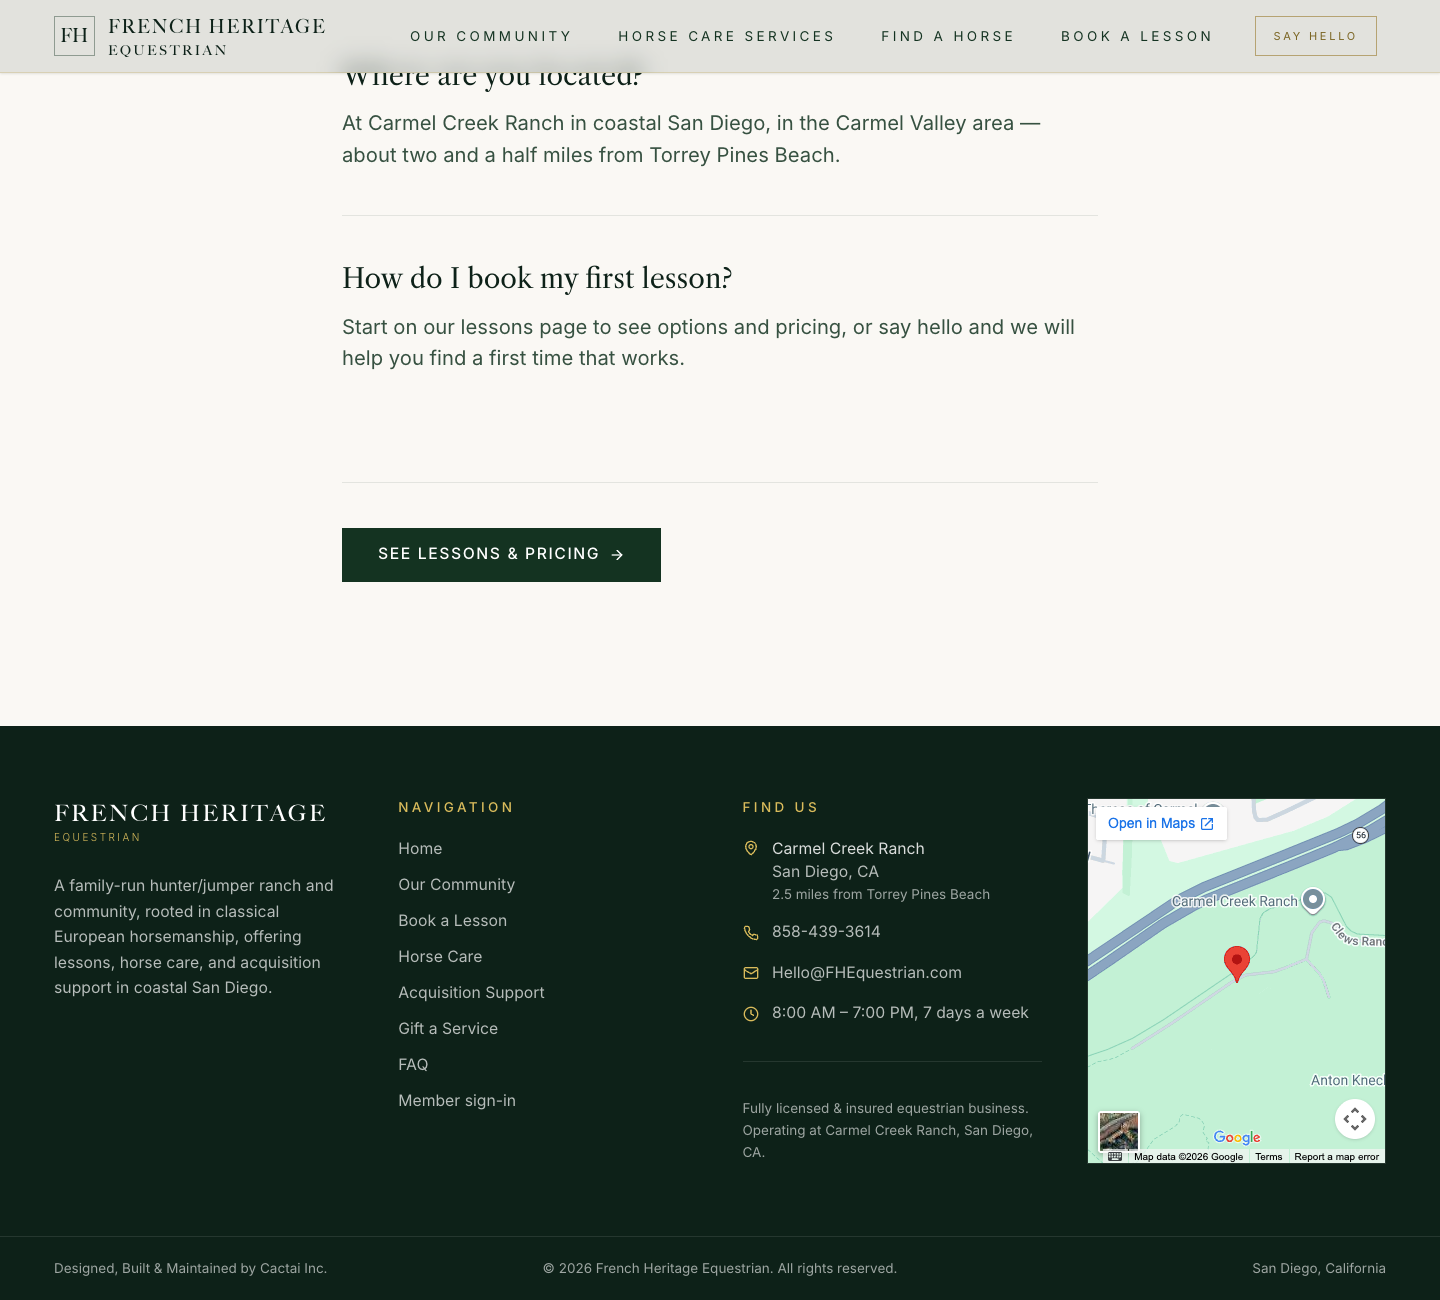
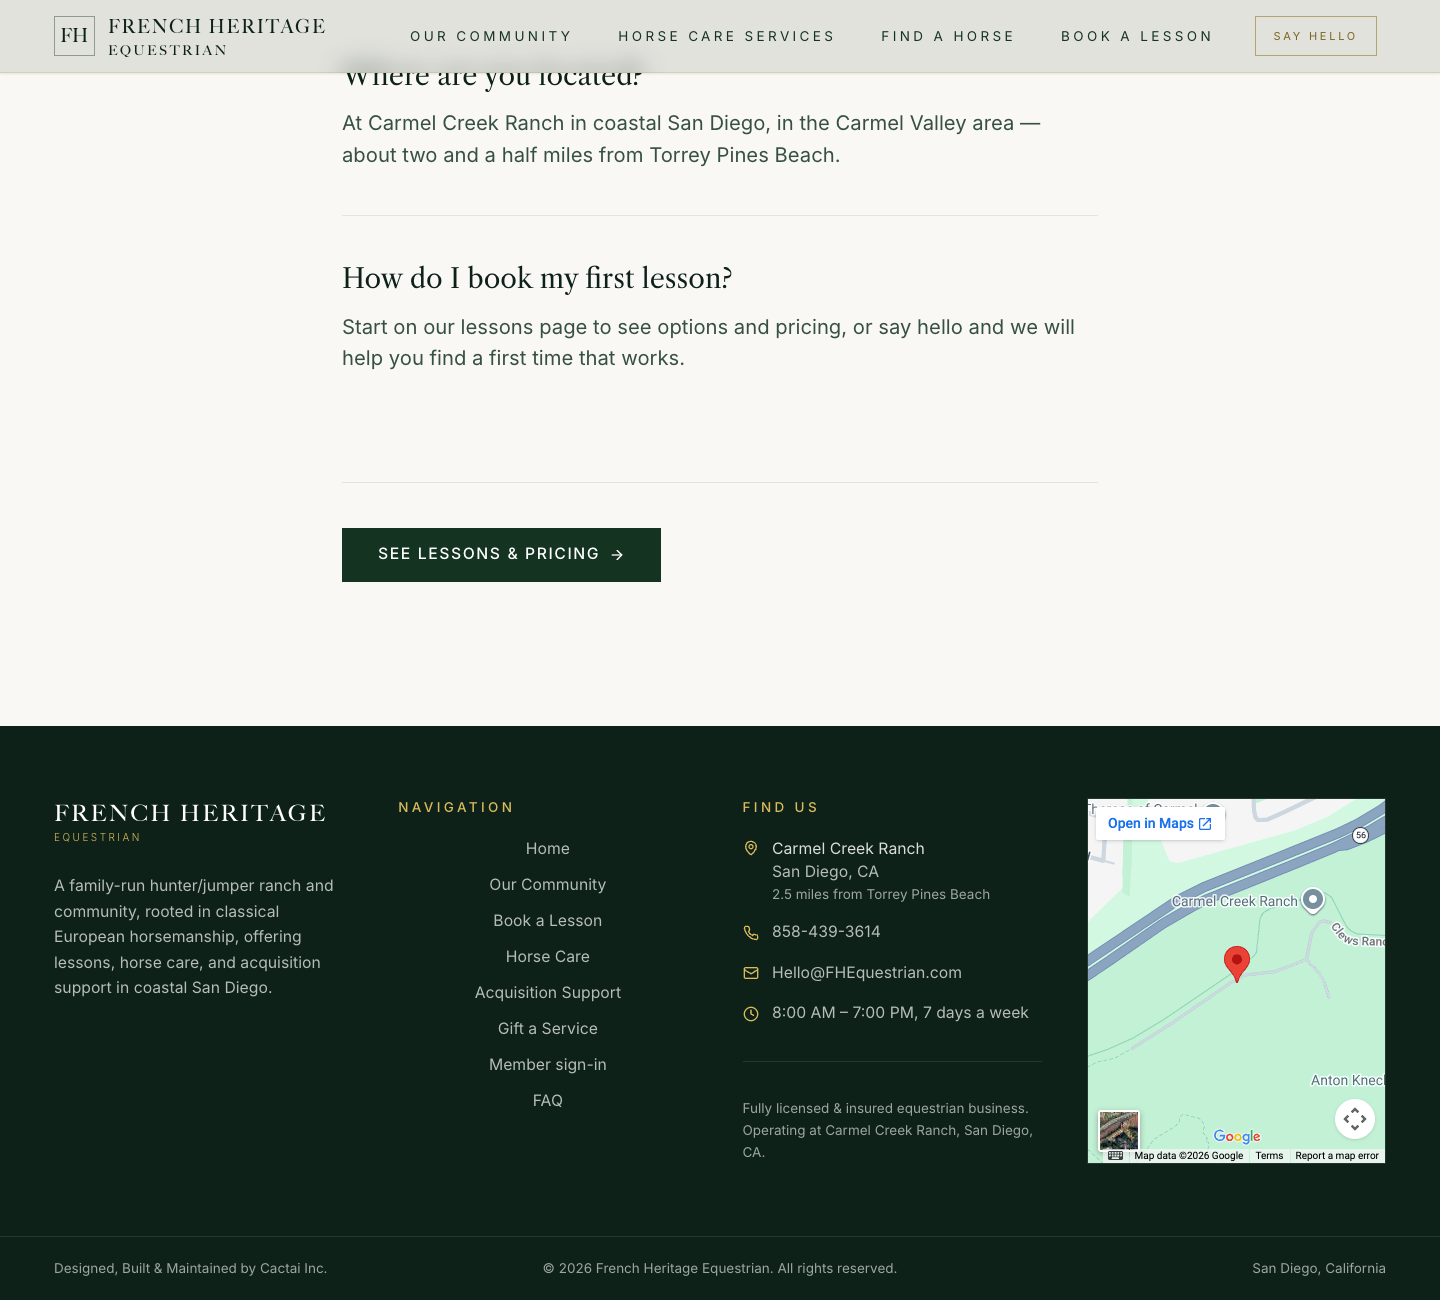
TASK-FOOTER: center the footer nav, move FAQ to the last position
Owner request. nav flex column gets items-center/text-center to center each
link; FAQ pulled out of the mapped array and appended as its own item after
Member sign-in (which was already last), since "last position" means last
overall, not last within the array that already had it there.

diff --git a/src/components/layout/Footer.tsx b/src/components/layout/Footer.tsx
@@ -49,7 +49,7 @@ export default function Footer() {
         {/* Navigation */}
         <div>
           <p className="eyebrow-on-dark mb-5">Navigation</p>
-          <nav className="flex flex-col gap-3" aria-label="Footer">
+          <nav className="flex flex-col items-center gap-3 text-center" aria-label="Footer">
             {[
               { label: 'Home', href: '/' },
               { label: 'Our Community', href: '/story' },
@@ -61,7 +61,6 @@ export default function Footer() {
               { label: 'Horse Care', href: '/horse' },
               { label: 'Acquisition Support', href: '/acquisition' },
               { label: 'Gift a Service', href: '/gift' },
-              { label: 'FAQ', href: '/faq' },
             ].map((link) => (
               <Link
                 key={link.label}
@@ -77,6 +76,13 @@ export default function Footer() {
               className="text-sm font-sans text-white/[0.7] hover:text-white transition-colors focus-ring-dark"
             >
               {user ? 'Member area' : 'Member sign-in'}
+            </Link>
+            {/* Owner, 2026-08-17: FAQ moved to the last position. */}
+            <Link
+              to="/faq"
+              className="text-sm font-sans text-white/[0.7] hover:text-white transition-colors focus-ring-dark"
+            >
+              FAQ
             </Link>
           </nav>
         </div>

diff --git a/docs/reports/TASK-FOOTER-REPORT.md b/docs/reports/TASK-FOOTER-REPORT.md
@@ -152,9 +152,17 @@ relocated and re-styled, so the signed-in behavior claim rests on "the logic
 was not touched," not on a fresh screenshot — the owner should confirm once
 signed in.
 
-Nav now reads eight items at this length (Home, Our Community, Book a Lesson,
-Horse Care, Acquisition Support, Gift a Service, FAQ, Member sign-in) — see
-screenshots, it holds up fine in a single column on all three widths tested.
+Nav now reads eight items at this length — see screenshots, it holds up fine
+in a single column on all three widths tested.
+
+**Later, owner (2026-08-17): "center align the footer nav entries and move
+faq to the last position."** `nav` gained `items-center text-center`
+(flex-column, so this centers every link on the column's own axis, not the
+page's). FAQ moved out of the mapped array and became its own `<Link>` after
+the sign-in item — sign-in was already the last item post-F2, so "last
+position" now means Home, Our Community, Book a Lesson, Horse Care,
+Acquisition Support, Gift a Service, Member sign-in, **FAQ**. Confirmed in
+the refreshed `footer-desktop.png`/`footer-mobile.png`.
 
 ## F3 — the last line, three parts: DONE
 
